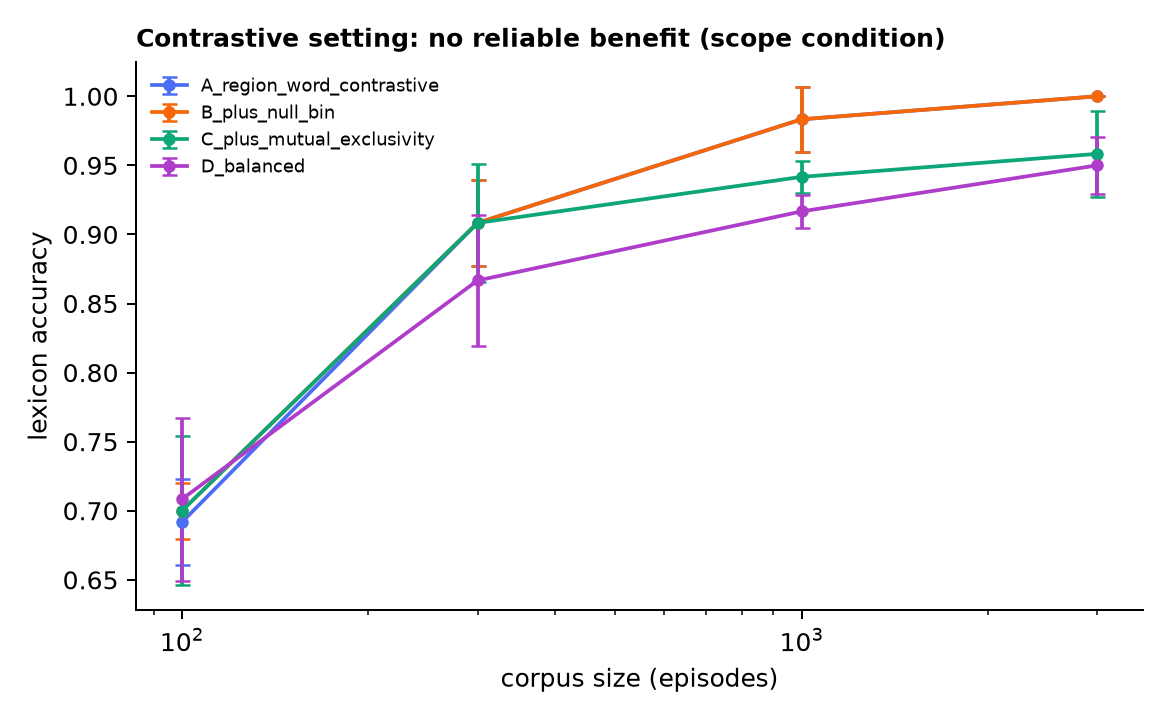
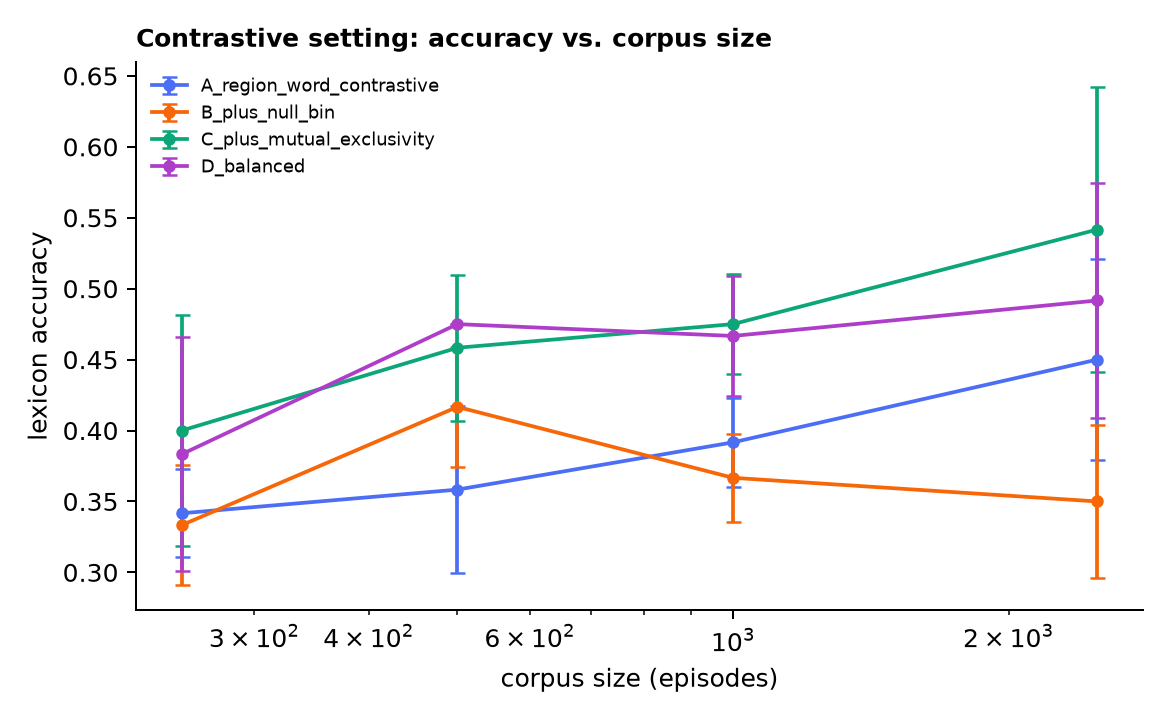
Re-measured sample-efficiency sweep confirms the retraction
On the corrected multi-exemplar world with held-out evaluation, the exclusivity
condition beats plain region-word contrastive learning at every corpus size:

  corpus    A(contrastive)  B(+null)  C(+exclusivity)  D(balanced)
  250       0.342           0.333     0.400            0.383
  500       0.358           0.417     0.458            0.475
  1000      0.392           0.367     0.475            0.467
  2500      0.450           0.350     0.542            0.492

with hub rate for C roughly a third to a quarter of A's throughout. The accuracy
gain and the mechanism it is attributed to move together, which is the evidence
that matters.

The null bin alone (B) is erratic in this setting, and that is expected rather
than swept aside: the simulator draws non-referential words from a disjoint
filler vocabulary, so a contrastive model can isolate them unaided. The null bin
earns its place in the autoregressive setting, where its absence collapsed the
model to 0.000.

diff --git a/METHOD.md b/METHOD.md
@@ -283,6 +283,26 @@ Two things worth more than the headline number.
 1. **The hub rate trends down as `ρ` rises**, from 0.050 at `ρ=0` to 0.025 for `ρ ≥ 1`. It is *not* monotone across the sweep (0.050, 0.033, 0.050, 0.033, 0.042, 0.025, 0.025, 0.025) — at 3 seeds these mid-range wobbles are within noise — but the endpoints differ by a factor of two in the direction Proposition 2 predicts: the fraction of words whose nearest referent is a never-named background object halves as the column constraint tightens. More seeds are needed before leaning on this.
 2. **The optimum is interior**, at `ρ ≈ 0.1`, not at `ρ = ∞`. Full mutual exclusivity over-constrains: real scenes genuinely do contain several things one word could attach to, and forcing a near-permutation costs accuracy. The knob is a trade-off, which is what one would want from a cognitive constraint rather than a monotone trick.
 
+Re-measuring the sample-efficiency sweep on the corrected world confirms it at every corpus size (3 seeds; `A` is `ρ=0` with no null bin, i.e. plain region–word contrastive learning):
+
+| corpus | A (contrastive) | B (+ null) | C (+ exclusivity) | D (balanced) |
+|---|---|---|---|---|
+| 250 | 0.342 | 0.333 | **0.400** | 0.383 |
+| 500 | 0.358 | 0.417 | 0.458 | **0.475** |
+| 1000 | 0.392 | 0.367 | **0.475** | 0.467 |
+| 2500 | 0.450 | 0.350 | **0.542** | 0.492 |
+
+and the hub rate is lower for the exclusivity conditions throughout:
+
+| corpus | A | B | C | D |
+|---|---|---|---|---|
+| 250 | 0.025 | 0.025 | 0.008 | 0.000 |
+| 500 | 0.025 | 0.008 | 0.000 | 0.000 |
+| 1000 | 0.067 | 0.042 | 0.017 | 0.025 |
+| 2500 | 0.033 | 0.025 | 0.008 | 0.017 |
+
+`C` beats `A` at all four sizes (+0.058, +0.100, +0.083, +0.092) with hub rate roughly a third to a quarter of the baseline's — the accuracy gain and the mechanism it is attributed to move together, which is the evidence that matters. The null bin alone (`B`) is erratic here, which is expected: this simulator's non-referential words are drawn from a disjoint filler vocabulary, so a contrastive model can isolate them without help. The null bin earns its place in the *autoregressive* setting (§6.2a), where forcing every word to ground collapsed the model to 0.000.
+
 The general lesson, recorded because it nearly cost the whole result: **a negative result measured in a regime where every condition saturates is not a negative result.** The single-exemplar simulator was the bug, and both the original "no benefit" claim and the sample-efficiency table it rested on were consequences of it.
 
 ### 6.3 Reporting standards

diff --git a/RESULTS.md b/RESULTS.md
@@ -45,21 +45,21 @@ Tasks with no query image to match against show `n/a`; the matcher is inapplicab
 
 Lexicon accuracy vs. finite corpus size, contrastive objective, on the corrected multi-exemplar world with held-out evaluation. An earlier version of this table was measured with a single appearance per object, where every condition saturated at 1.000 and the comparison was vacuous; see METHOD.md §6.2b for the retraction.
 
-| condition | n=100 | n=300 | n=1000 | n=3000 |
+| condition | n=250 | n=500 | n=1000 | n=2500 |
 |---|---|---|---|---|
-| A_region_word_contrastive | 0.692 | 0.908 | 0.983 | 1.000 |
-| B_plus_null_bin | 0.700 | 0.908 | 0.983 | 1.000 |
-| C_plus_mutual_exclusivity | 0.700 | 0.908 | 0.942 | 0.958 |
-| D_balanced | 0.708 | 0.867 | 0.917 | 0.950 |
+| A_region_word_contrastive | 0.342 | 0.358 | 0.392 | 0.450 |
+| B_plus_null_bin | 0.333 | 0.417 | 0.367 | 0.350 |
+| C_plus_mutual_exclusivity | 0.400 | 0.458 | 0.475 | 0.542 |
+| D_balanced | 0.383 | 0.475 | 0.467 | 0.492 |
 
 Hub rate (same runs):
 
-| condition | n=100 | n=300 | n=1000 | n=3000 |
+| condition | n=250 | n=500 | n=1000 | n=2500 |
 |---|---|---|---|---|
-| A_region_word_contrastive | 0.000 | 0.000 | 0.000 | 0.000 |
-| B_plus_null_bin | 0.000 | 0.000 | 0.000 | 0.000 |
-| C_plus_mutual_exclusivity | 0.000 | 0.008 | 0.000 | 0.000 |
-| D_balanced | 0.000 | 0.000 | 0.000 | 0.000 |
+| A_region_word_contrastive | 0.025 | 0.025 | 0.067 | 0.033 |
+| B_plus_null_bin | 0.025 | 0.008 | 0.042 | 0.025 |
+| C_plus_mutual_exclusivity | 0.008 | 0.000 | 0.017 | 0.008 |
+| D_balanced | 0.000 | 0.000 | 0.025 | 0.017 |
 
 `hub` is the fraction of words whose nearest referent is a never-named background object — the quantity Proposition 2 predicts the column constraint should suppress.
 
